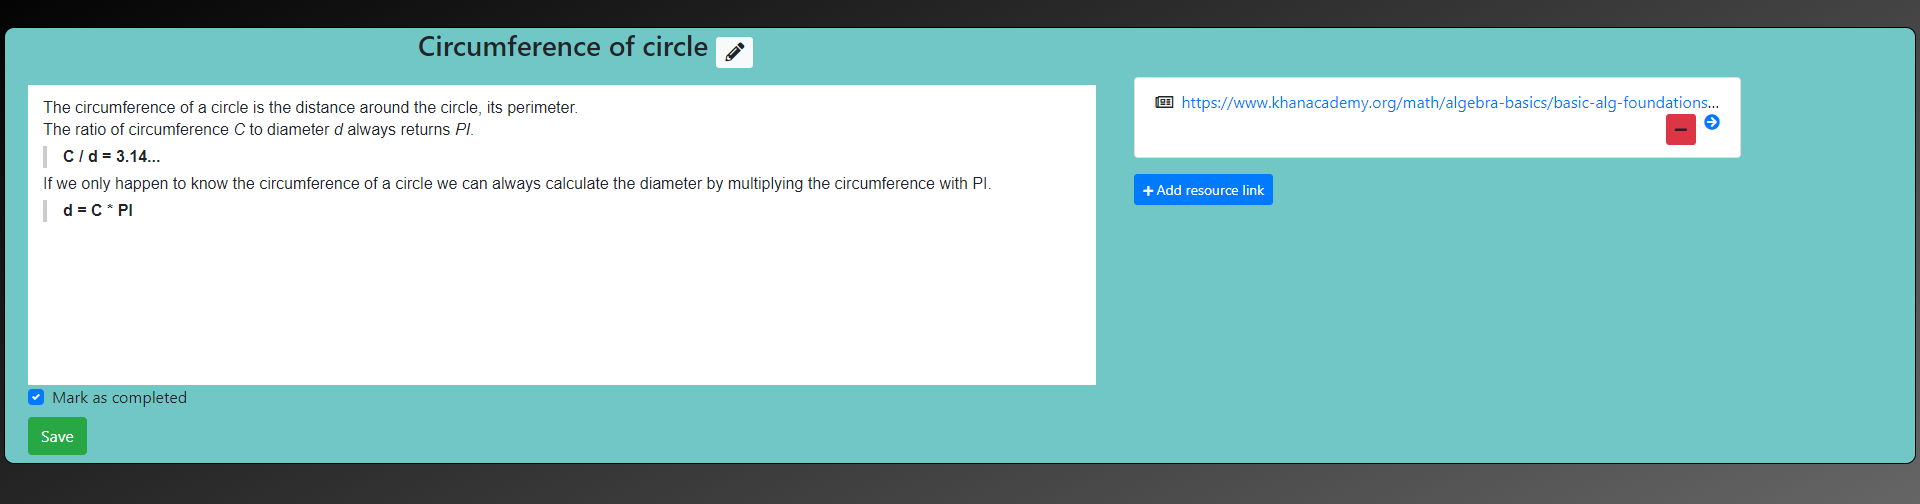
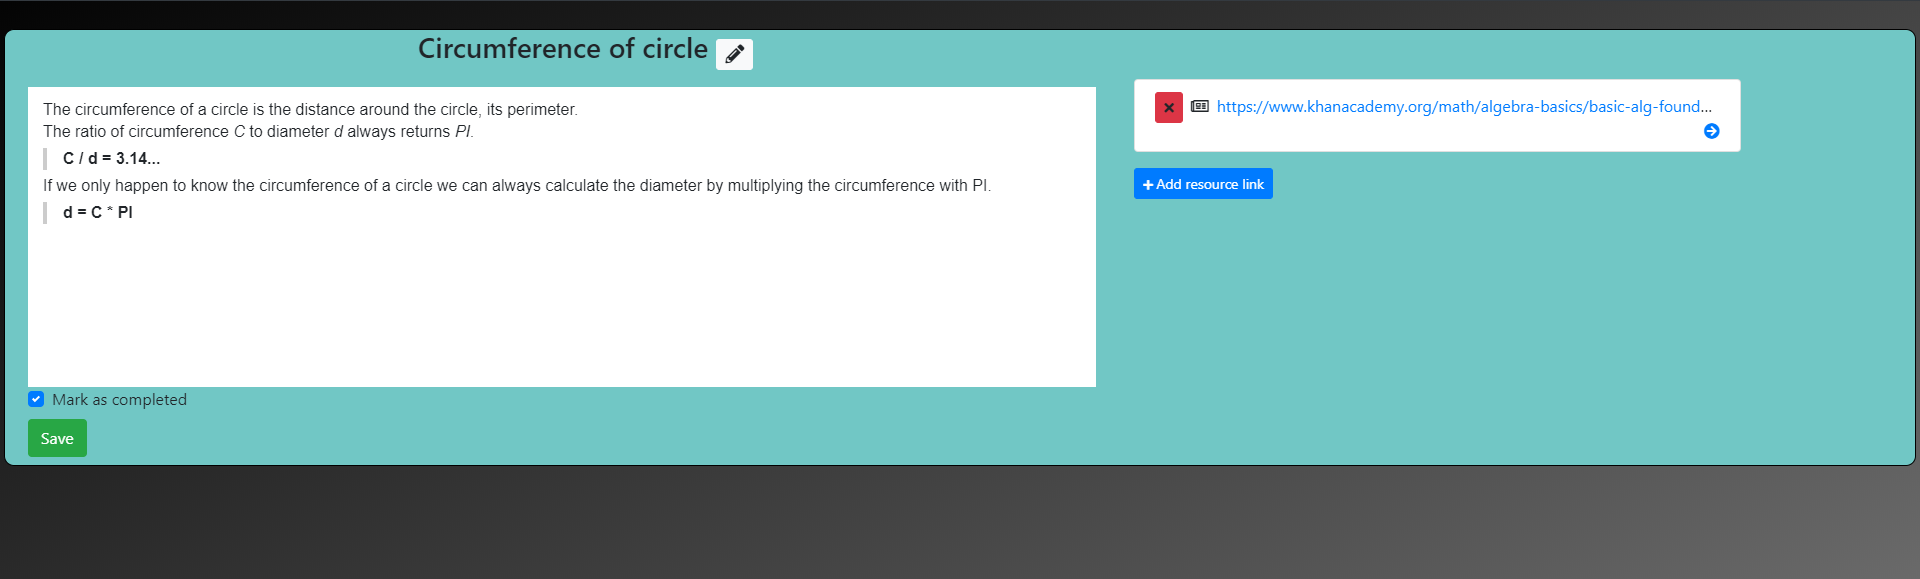
Move delete resource button and screenshots

Changed region(s): [[0.0, 0.0298, 1.0, 0.4464], [0.0, 0.6548, 1.0, 0.9226]]

diff --git a/front-end/src/app/resources/resources.component.html b/front-end/src/app/resources/resources.component.html
@@ -1,13 +1,15 @@
 <div class="resources-list mb-3">
   <ul class="list-group">
     <li class="list-group-item text-truncate" *ngFor="let resource of resources; let i = index">
+      <a class="btn btn-sm btn-danger mr-2" (click)="onDelete(resource, i)"
+         title="Delete resource">
+        <i class="fa fa-times"></i>
+      </a>
       <span class="mr-2" [title]="resource.type"
             [ngClass]="RESOURCE_ICONS[getResourceKeyFromValue(resource.type)]"></span>
       <a [href]="resource.url" target="_blank">{{resource.url}}
         <span class="float-right fa fa-arrow-circle-right"></span></a>
-      <a class="btn btn-sm btn-danger float-right mr-2" (click)="onDelete(resource, i)">
-        <i class="fa fa-minus"></i>
-      </a>
+
     </li>
   </ul>
 </div>
@@ -15,7 +17,8 @@
         (click)="renderNewResource()"><span class="fa fa-xs fa-plus"></span>
   Add resource link
 </button>
-<div class="border border-danger bg-danger mt-5 p-2" *ngIf="!permissionService.hasPermission(sessionService.getCurrentUser())">
+<div class="border border-danger bg-danger mt-5 p-2"
+     *ngIf="!permissionService.hasPermission(sessionService.getCurrentUser())">
   <p class="text-white">As a guest user you do not have access to some of the feature, create an account or login.</p>
 </div>
 <div class="new_resource mt-4" *ngIf="newResource">

diff --git a/server/api/learning-goals.js b/server/api/learning-goals.js
@@ -5,7 +5,6 @@ const LearningGoal = require('../models/Learning-goal');
 const Task = require('../models/Task');
 const Subject = require('../models/Subject');
 const User = require('../models/User');
-const db = require('../config/database');
 
 // CRUD Learning-goal routes
 router.get('/api/learning-goals', async function (req, res) {
